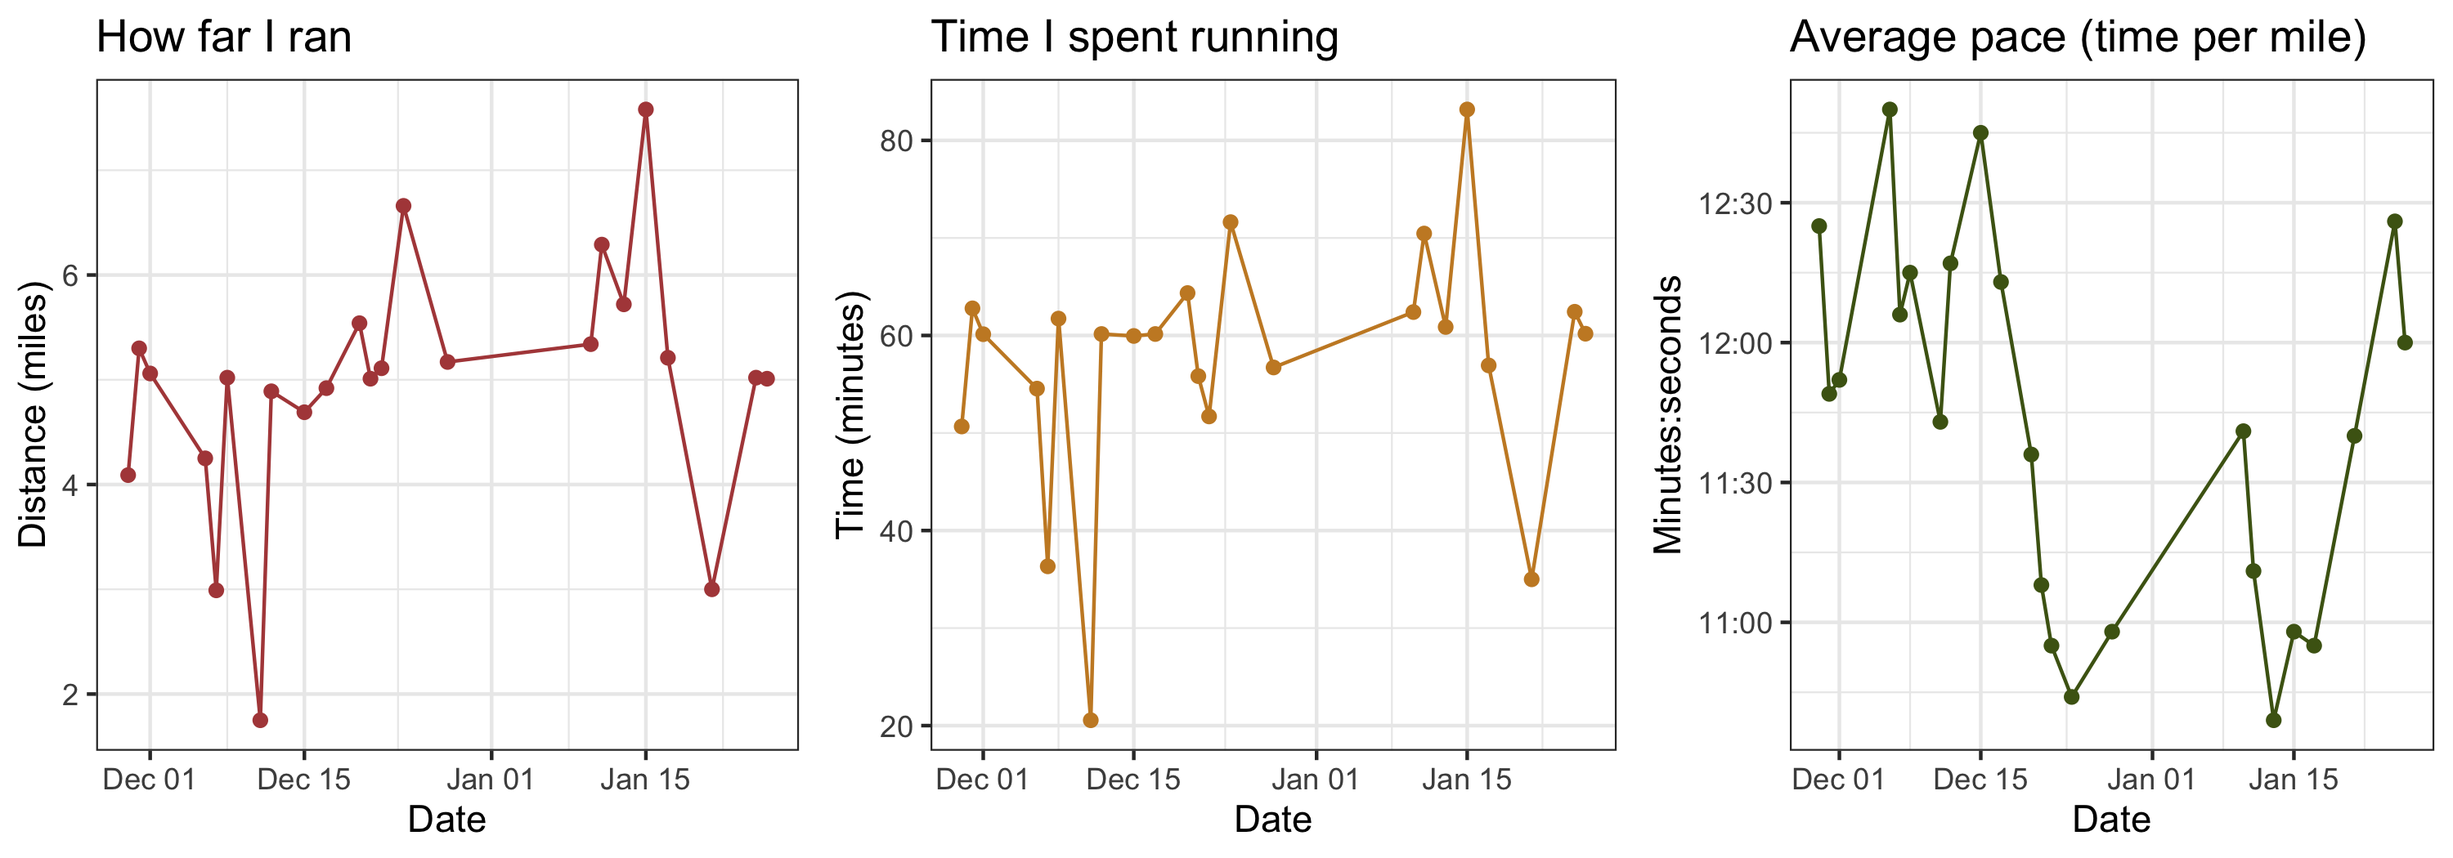
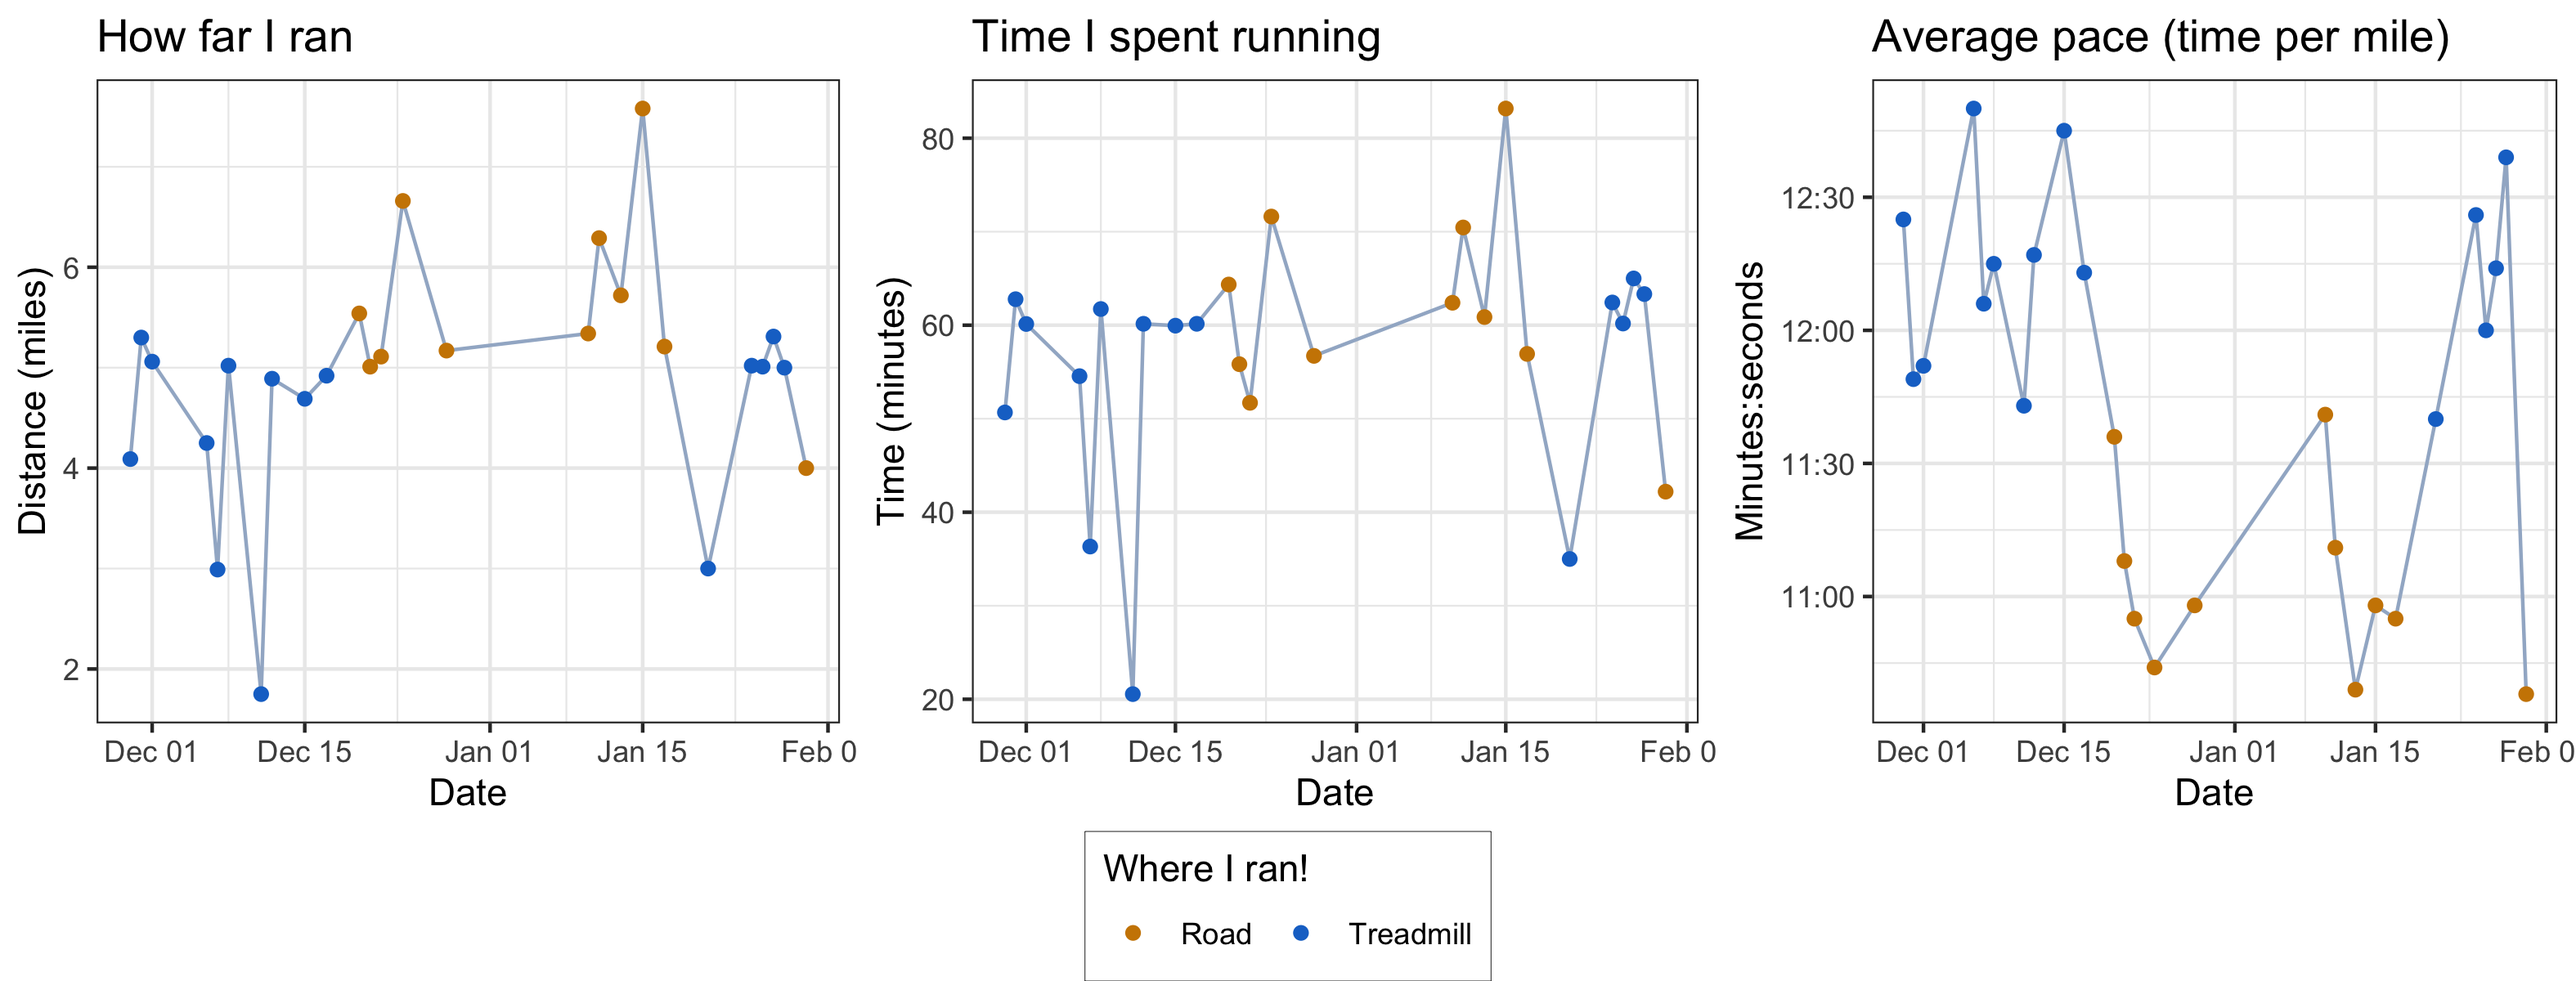
1/30/22

diff --git a/README.md b/README.md
@@ -11,12 +11,12 @@ runningData$Date <- as.Date(runningData$Date, format="%m/%d/%y")
 runningData$Average_Pace <- as.POSIXct(runningData$Average_Pace, format="%M:%S")
 
 # Plots
-library(ggplot2); library(gridExtra); library(MetBrewer)
-plotColors <- met.brewer("Gauguin", 3)
-p1 <- ggplot(runningData, aes(x=Date, y=Miles)) + geom_point(color=plotColors[1]) + geom_line(color=plotColors[1]) + labs(y="Distance (miles)", title="How far I ran") + theme_bw()
-p2 <- ggplot(runningData, aes(x=Date, y=Time_Minutes)) + geom_point(color=plotColors[2]) + geom_line(color=plotColors[2]) + labs(y="Time (minutes)", title="Time I spent running") + theme_bw()
-p3 <- ggplot(runningData, aes(x=Date, y=Average_Pace)) + geom_point(color=plotColors[3]) + geom_line(color=plotColors[3]) + labs(y="Minutes:seconds", title="Average pace (time per mile)") + scale_y_datetime(date_labels="%M:%S") + theme_bw()
-grid.arrange(p1, p2, p3, nrow=1)
+library(ggplot2); library(ggpubr)
+plotSettings <- list(geom_line(color="lightsteelblue3"), geom_point(aes(color=Treadmill_Road)), scale_color_manual(values=c("orange3", "dodgerblue3")), theme_bw())
+p1 <- ggplot(runningData, aes(x=Date, y=Miles)) + labs(y="Distance (miles)", title="How far I ran") + plotSettings
+p2 <- ggplot(runningData, aes(x=Date, y=Time_Minutes)) + labs(y="Time (minutes)", title="Time I spent running") + plotSettings
+p3 <- ggplot(runningData, aes(x=Date, y=Average_Pace)) + labs(y="Minutes:seconds", title="Average pace (time per mile)") + scale_y_datetime(date_labels="%M:%S") + plotSettings + theme(legend.background=element_rect(size=0.1, linetype="solid", color="black")) + labs(color="Where I ran!") + guides(color=guide_legend(nrow=1))
+ggarrange(p1, p2, p3, nrow=1, common.legend=T, legend.grob=get_legend(p3), legend="bottom")
 ```
 
 ![](Plots/README-Running-Plots-1.png)<!-- -->
@@ -27,4 +27,4 @@ Total miles since 11/29/21:
 sum(runningData$Miles)
 ```
 
-    ## [1] 113.62
+    ## [1] 127.93
